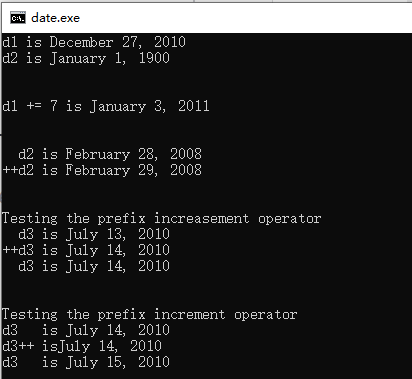
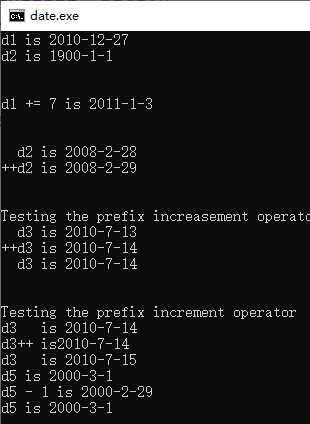
修改日期格式

diff --git a/final_project/src/guest.cpp b/final_project/src/guest.cpp
@@ -10,9 +10,36 @@ int main(int argc, char const *argv[]) {
   Date today(1,2,2018);
   Guest a_man("100000", today,"Mr.a");
   a_man.show();
+  a_man.record();
+  /*
+    His name is: Mr.a
+    ID_card: 100000
+    check in date: 1900-1-1
+    100000,1900-1-1,Mr.a, man
+   */
 
   cout << "\n\n";
   Guest a_woman("108", today, "a", "girl");
   a_woman.show();
+  a_woman.record();
+  /*
+    His name is: a
+    ID_card: 108
+    check in date: 1900-1-1
+    108,1900-1-1,a, man
+   */
+
   return 0;
 }
+/*
+His name is: Mr.a
+ID_card: 100000
+check in date: 1900-1-1
+100000,1900-1-1,Mr.a, man
+
+
+His name is: a
+ID_card: 108
+check in date: 1900-1-1
+108,1900-1-1,a, man
+ */

diff --git a/final_project/src/date.h b/final_project/src/date.h
@@ -171,7 +171,6 @@ void Date::increment() {
   }
 }
 
-// TODO
 void Date::decrement(){
   if (day > 2) {
     --day;
@@ -192,11 +191,7 @@ void Date::decrement(){
 
 // overload output operator
 ostream &operator<<(ostream &output, const Date &d){
-  static string month_name[13] = {"", "January", "February",
-    "March", "April", "May", "June", "July", "August",
-    "September", "October", "November", "December"
-  };
-  output << month_name[d.month] << ' ' << d.day << ", "<< d.year;
+  output << d.year << "-" << d.month << "-" << d.day;
   return output;  // enablees cascading
 }
 

diff --git a/final_project/src/date.cpp b/final_project/src/date.cpp
@@ -54,17 +54,6 @@ int main(int argc, char const *argv[]) {
     d3   is July 15, 2010
    */
 
-  // test input <<
-  Date d4;
-  cout << "\nplease input as form yyyy-mm-dd" << endl;
-  std::cin >> d4;
-  cout << "after input d4 is " << d4 << endl;
-  /* output
-    please input as form yyyy-mm-dd
-    2018-02-01
-    after input d4 is February 1, 2018
-  */
-
   // test "-"
   Date d5(3, 1, 2000);
   cout << "d5 is " << d5 << endl;

diff --git a/final_project/src/guest.h b/final_project/src/guest.h
@@ -45,6 +45,11 @@ class Guest {
     cout << "Guest room check out" << endl;
   }
 
+  void record() {
+    cout << id_card << "," << chick_in_date << ","
+      << name << "," << (gender ? "woman": "man") << endl;
+  }
+
  private:
   string id_card;
   Date chick_in_date;
